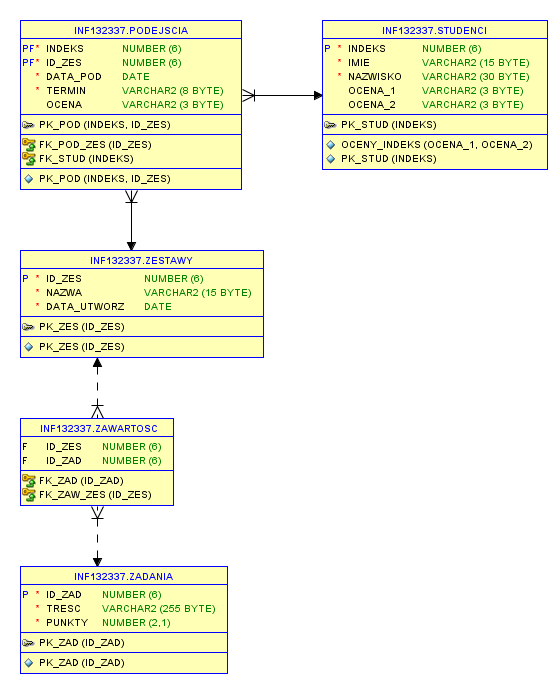
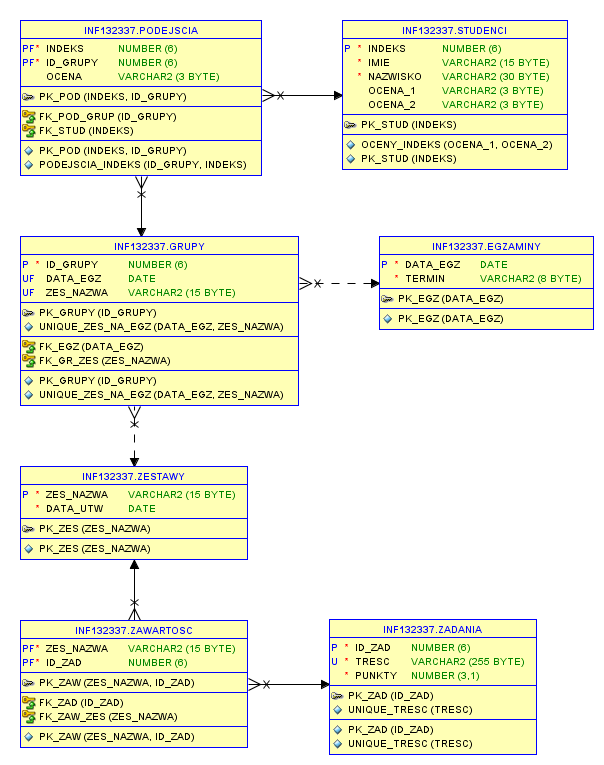
auto set marks to students

diff --git a/src/project/Main.java b/src/project/Main.java
@@ -215,6 +215,7 @@ public class Main extends Application {
             zestawy.remove(wybrany);
             nazwy_zestawu.remove(wybrany.getNazwa());
             sqlHandler.deleteFrom("DELETE FROM ZESTAWY WHERE ZES_NAZWA = '" + wybrany.getNazwa()+"'");
+            showInfo("Powodzenie","Usunięto zestaw "+wybrany.getNazwa());
         } else showError("Błąd usuwania","Nie wybrałeś żadnego zestawu");
     }
 
@@ -333,10 +334,10 @@ public class Main extends Application {
                 wybrany.setOcena(oc1);
                 break;
             case 2290:
-                showError("Błąd edycji","Naruszono więzy integralności. Sprawdź wprowadzone dane.");
+                showError("Błąd edycji","Ocena musi przyjmować jedną z tych wartości: 2.0, 3.0, 3.5, 4.0, 4.5, 5.0");
                 break;
             case 12899:
-                showError("Błąd edycji","Zbyt duża wartość. Sprawdź wsprowadzone dane");
+                showError("Błąd edycji","Ocena musi przyjmować jedną z tych wartości: 2.0, 3.0, 3.5, 4.0, 4.5, 5.0");
                 break;
         }
     }
@@ -391,7 +392,7 @@ public class Main extends Application {
                 egzaminy.remove(egz);
                 daty_egzaminu.remove(data);
                 sqlHandler.deleteFrom("DELETE FROM EGZAMINY WHERE DATA_EGZ = to_date('"+data+"','DD-MM-YYYY')");
-                showInfo("Powodzenie","Usunięto egzamin w dniu "+data);
+                showInfo("Powodzenie","Usunięto egzamin z dnia "+data);
                 break;
             }
         }
@@ -467,14 +468,8 @@ public class Main extends Application {
                 Grupa grupa = new Grupa(id, nazwa, dane[2]+"-"+dane[1]+"-"+dane[0]+" 00:00:00.0");
                 grupy.add(grupa);
                 break;
-            case 2290:
-                showError("Błąd dodawania", "Naruszono więzy integralności. Sprawdź wprowadzone dane.");
-                break;
-            case 12899:
-                showError("Błąd dodawania","Zbyt duża wartość. Sprawdź wsprowadzone dane");
-                break;
-            case 942:
-                showError("Błąd dodawania","Niepoprawna wartość punktów");
+            case 1:
+                showError("Błąd dodawania","Egzamin posiada już grupę korzystającą z danego zestawu");
                 break;
         }
     }
@@ -505,14 +500,23 @@ public class Main extends Application {
     public String ilePunktowMaZestaw(String nazwa) {
         return sqlHandler.ilePunktowMaZestaw(nazwa);
     }
-//
-//    public void zaktualizujOcene(String data, Grupa zestaw) {
-//        if (zestaw.getTermin().equals("pierwszy")) {
-//            sqlHandler.wprowadzOcenyStudentom1(data, zestaw.getNazwa());
-//        } else sqlHandler.wprowadzOcenyStudentom2(data, zestaw.getNazwa());
-//        studenci.clear();
-//        sqlHandler.selectStudenci();
-//    }
+
+    public void zaktualizujOcene(String data, String ilu) {
+        String data2 = data.split(" ")[0];
+        String[] dane = data2.split("-");
+        data2 = dane[2] + "-" + dane[1] + "-" + dane[0] + " 00:00:00.0";
+        String termin = sqlHandler.selectTerminEgzaminu(data);
+        if (termin == null) showError("Niepowodzenie","Nie wybrano egzaminu");
+        else if (termin.equals("pierwszy")) {
+            sqlHandler.wprowadzOcenyStudentom1(data2);
+            showInfo("Powodzenie","Wystawiono Ocene_1 "+ilu+" studentom");
+        } else {
+            sqlHandler.wprowadzOcenyStudentom2(data2);
+            showInfo("Powodzenie","Wystawiono Ocene_2 "+ilu+" studentom");
+        }
+        studenci.clear();
+        sqlHandler.selectStudenci();
+    }
 
     public void usunZaliczonychZBazy() {
         int ilu = studenci.size();

diff --git a/src/project/view/WynikiController.java b/src/project/view/WynikiController.java
@@ -84,6 +84,7 @@ public class WynikiController extends TabController{
                     if(newValue != null) {
                         TableStudent.setItems(main.getObserListPodejsciaZGrupy(newValue));
                         wybranaGrupa = newValue;
+                        clearStudent();
                     }
                 })
         );
@@ -116,13 +117,17 @@ public class WynikiController extends TabController{
         wybrany = pod;
     }
 
+    private void clearStudent() {
+        indeksField1.setText("");
+        imieField1.setText("");
+        nazwiskoField1.setText("");
+        ocenaField.setText("");
+    }
+
     public void zaktualizujOceny() {
-        if (wybrany!=null) {
-            String data = (String) dateChoiceBox.getValue();
-            data = data.split(" ")[0];
-            String[] dane = data.split("-");
-            //main.zaktualizujOcene(dane[2] + "-" + dane[1] + "-" + dane[0] + " 00:00:00.0", wybranaGrupa);
-        }
+        String data = (String) dateChoiceBox.getValue();
+        if (!data.equals(""))
+            main.zaktualizujOcene(data, iluStudentow.getText());
     }
 
     public void zapiszOcene() {
@@ -174,7 +179,6 @@ public class WynikiController extends TabController{
 
     public void usunGrupe() {
         main.usunGrupeZBazy(wybranaGrupa);
-
         TableGrupa.setItems(main.getObserListGrupyEgzaminu(dateChoiceBox.getValue()));
         TableGrupa.setVisible(false);
         TableGrupa.setVisible(true);

diff --git a/src/project/sql/SQLHandler.java b/src/project/sql/SQLHandler.java
@@ -377,11 +377,10 @@ public class SQLHandler {
         return -1;
     }
 
-    public Exception wprowadzOcenyStudentom1(String data, String nazwa) {
+    public Exception wprowadzOcenyStudentom1(String data) {
         try {
-            CallableStatement cstmt = conn.prepareCall("{CALL zaktualizuj_ocene1(?,?)}");
+            CallableStatement cstmt = conn.prepareCall("{CALL zaktualizuj_ocene1(?)}");
             cstmt.setTimestamp(1, Timestamp.valueOf(data));
-            cstmt.setString(2, nazwa);
             cstmt.executeUpdate();
             cstmt.close();
         } catch (SQLException exception) {
@@ -392,11 +391,10 @@ public class SQLHandler {
         return null;
     }
 
-    public Exception wprowadzOcenyStudentom2(String data, String nazwa) {
+    public Exception wprowadzOcenyStudentom2(String data) {
         try {
-            CallableStatement cstmt = conn.prepareCall("{CALL zaktualizuj_ocene2(?,?)}");
+            CallableStatement cstmt = conn.prepareCall("{CALL zaktualizuj_ocene2(?)}");
             cstmt.setTimestamp(1, Timestamp.valueOf(data));
-            cstmt.setString(2, nazwa);
             cstmt.executeUpdate();
             cstmt.close();
         } catch (SQLException exception) {

diff --git a/src/project/view/ZestawyController.java b/src/project/view/ZestawyController.java
@@ -90,7 +90,6 @@ public class ZestawyController extends TabController{
 
     public void usunZestaw() {
         main.usunZestawZBazy(wybranyZestaw);
-        main.showInfo("Powodzenie","Usunięto zestaw "+wybranyZestaw.getNazwa());
         //reloadZestawy();
     }
 
